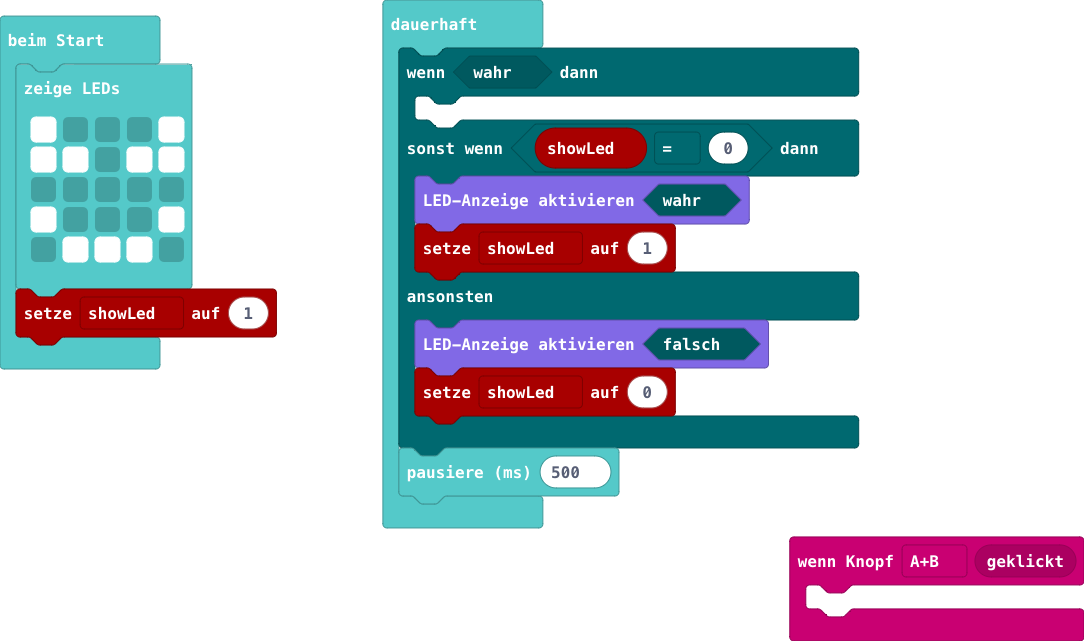
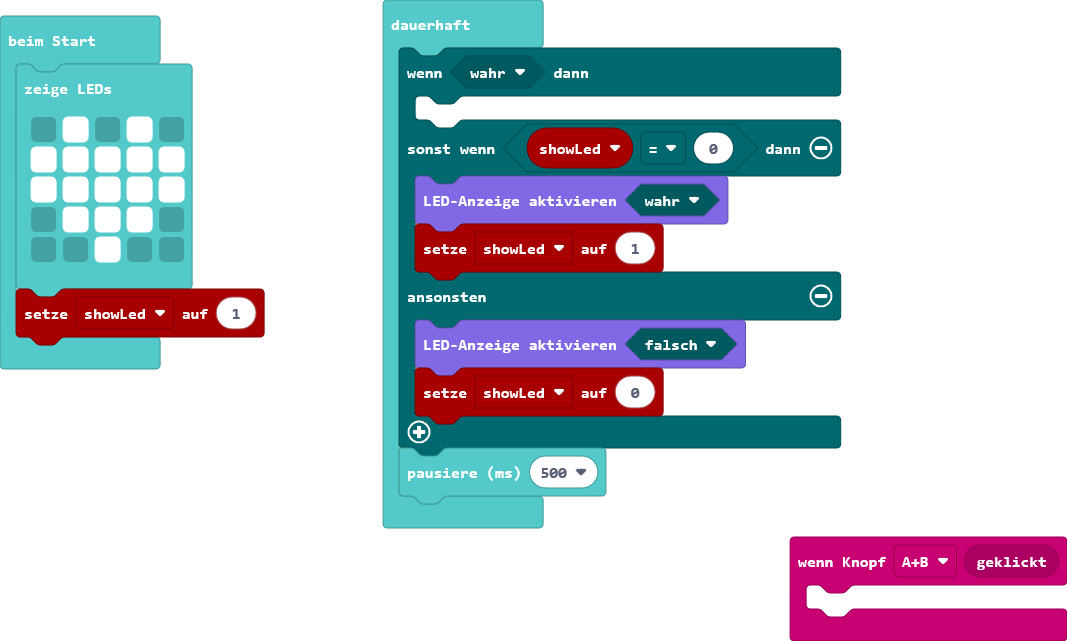
Aktualisiere main.blocks, main.ts

diff --git a/main.ts b/main.ts
@@ -2,11 +2,11 @@ input.onButtonEvent(Button.AB, input.buttonEventClick(), function () {
 	
 })
 basic.showLeds(`
-    # . . . #
-    # # . # #
-    . . . . .
-    # . . . #
+    . # . # .
+    # # # # #
+    # # # # #
     . # # # .
+    . . # . .
     `)
 let showLed = 1
 basic.forever(function () {
